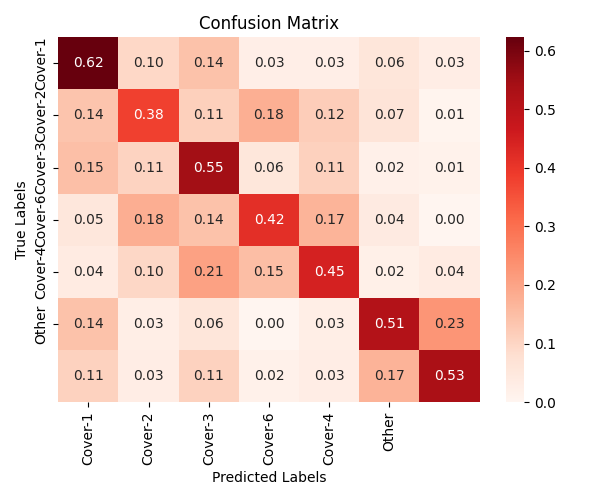
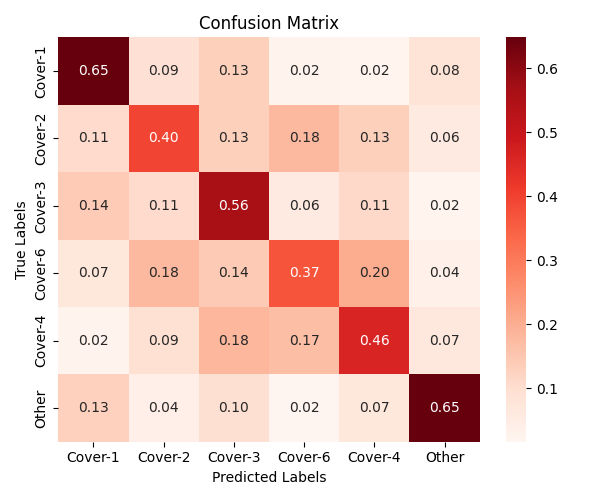
added 3 new features

diff --git a/passing_down.py b/passing_down.py
@@ -52,7 +52,7 @@ class PassingDown():
             target_y = stat_encodings.encode_passCoverage(play['pff_passCoverage'])
             if target_y == -1:
                 print('\tExcluded')
-                return torch.zeros(51)
+                return torch.zeros(54)
             
             # Extract pff_manZone
             man_zone = stat_encodings.encode_manZone(play['pff_manZone'])
@@ -118,15 +118,15 @@ class PassingDown():
             safety_depths = []
             safety_y_coords = []
 
-            # Count how many players are inside/outside 10 yards of the ball's y-axis
+            # Count how many defenders are inside/outside 10 yards of the ball's y-axis
             middle_field_count = 0
             outside_field_count = 0
             middle_thresh = 10
 
             near_los_thresh = 1.5 # Near LoS = within 1.5 yards of LoS
             in_box_x_thresh = 5 # In box = within 5 yards of LoS, within 10 yards on either side of ball
-            players_near_los = 0
-            players_in_box = 0
+            defenders_near_los = 0
+            defenders_in_box = 0
 
             # If both safeties are 10+ yards away from LoS, Middle of Field is open
             mof_open_thresh = 10
@@ -181,19 +181,19 @@ class PassingDown():
                     db_depths.append(player_dist_to_los)
                     db_y_coords.append(player_y_coord_at_snap)
                 
-                # Get # of players in middle of the field and outside
+                # Get # of defenders in middle of the field and outside
                 if np.round(np.abs(player_y_coord_at_snap - ball_y_coord), 4) <= middle_thresh:
                     middle_field_count += 1
                 else:
                     outside_field_count += 1
 
-                # Get # of players near the line of scrimmage
+                # Get # of defenders near the line of scrimmage
                 if player_dist_to_los <= near_los_thresh:
-                    players_near_los += 1
+                    defenders_near_los += 1
 
-                # Get # of players in the box (within 5 yards of LoS and within 10 yards of the ball placement (y-axis))
+                # Get # of defenders in the box (within 5 yards of LoS and within 10 yards of the ball placement (y-axis))
                 if player_dist_to_los <= in_box_x_thresh and np.round(np.abs(player_y_coord_at_snap - ball_y_coord), 4) <= middle_thresh:
-                    players_in_box += 1
+                    defenders_in_box += 1
 
 
                 positions_analyzed.append(player_position)
@@ -234,23 +234,26 @@ class PassingDown():
             features['next_deepest_safety_depth'] = next_deepest_safety_depth
             features['middle_field_count'] = middle_field_count
             features['outside_field_count'] = outside_field_count
-            features['players_near_los'] = players_near_los
-            features['players_in_box'] = players_in_box
+            features['defenders_near_los'] = defenders_near_los
+            features['defenders_in_box'] = defenders_in_box
             features['avg_defender_depth'] = np.round(np.mean(all_depths), 4)
             features['std_defender_depth'] = np.round(np.std(all_depths), 4)
             features['avg_cb_depth'] = np.round(np.mean(cb_depths), 4)
             features['min_cb_depth'] = np.min(cb_depths)
-            features['avg_defender_to_deepest_safety'] = avg_defender_to_deepest_safety_depth
+            features['max_cb_depth'] = np.max(cb_depths)
+            features['avg_defender_to_deepest_safety'] = np.round(avg_defender_to_deepest_safety_depth, 4)
             features['defender_lateral_spread'] = defender_lateral_spread
             features['std_lb_depth'] = np.round(np.std(lb_depths), 4)
             features['lb_lateral_spread'] = lb_lateral_spread
             features['avg_lb_depth'] = np.round(np.mean(lb_depths), 4)
+            features['min_lb_depth'] = np.min(lb_depths)
+            features['max_lb_depth'] = np.max(lb_depths)
             features['std_db_depth'] = np.round(np.std(db_depths), 4)
             features['avg_db_depth'] = np.round(np.mean(db_depths), 4)
             features['safety_lateral_spread'] = safety_lateral_spread
             features['std_safety_depth'] = np.round(np.std(safety_depths), 4)
             features['avg_safety_depth'] = np.round(np.mean(safety_depths), 4)
-            features['safety_depth_diff'] = deepest_safety_depth - next_deepest_safety_depth
+            features['safety_depth_diff'] = np.round(deepest_safety_depth - next_deepest_safety_depth, 4)
             features['mof_open'] = mof_open
             features['man_zone'] = man_zone
             features['target_y'] = target_y
@@ -268,23 +271,26 @@ class PassingDown():
                 print('Std defender depth:\t\t', np.round(np.std(all_depths), 4))
                 print('Deepest safety depth:\t\t', deepest_safety_depth)
                 print('Next deepest safety:\t\t', next_deepest_safety_depth)
-                print('Players in middle of the field:\t', middle_field_count)
-                print('Players in outside of the field:', outside_field_count)
-                print('Players near LoS:\t\t', players_near_los)
-                print('Players in box:\t\t\t', players_in_box)
+                print('Defenders in middle of the field:', middle_field_count)
+                print('Defenders in outside of the field:', outside_field_count)
+                print('Defenders near LoS:\t\t', defenders_near_los)
+                print('Defenders in box:\t\t\t', defenders_in_box)
                 print('Avg CB depth:\t\t\t', np.round(np.mean(cb_depths), 4))
                 print('Min CB depth:\t\t\t', np.min(cb_depths))
+                print('Max CB depth:\t\t\t', np.min(cb_depths))
                 print('Avg LB depth:\t\t\t', np.round(np.mean(lb_depths), 4))
                 print('Std LB depth:\t\t\t', np.round(np.std(lb_depths), 4))
+                print('Min LB depth:\t\t\t', np.min(lb_depths))
+                print('Max LB depth:\t\t\t', np.min(lb_depths))
                 print('LB lateral spread:\t\t', lb_lateral_spread)
                 print('Std DB depth:\t\t\t', np.round(np.std(db_depths), 4))
                 print('Avg DB depth:\t\t\t', np.round(np.mean(db_depths), 4))
                 print('Avg safety depth:\t\t', np.round(np.mean(safety_depths), 4))
                 print('Std safety depth:\t\t', np.round(np.std(safety_depths), 4))
                 print('Safety lateral spread:\t\t', safety_lateral_spread)
-                print('Safety depth diff:\t\t', deepest_safety_depth - next_deepest_safety_depth)
+                print('Safety depth diff:\t\t', np.round(deepest_safety_depth - next_deepest_safety_depth), 4)
                 print('Mof Open:\t\t\t', mof_open)
-                print('Avg defender depth to deepest safety:', avg_defender_to_deepest_safety_depth)
+                print('Avg defender depth to deepest safety:', np.round(avg_defender_to_deepest_safety_depth), 4)
                 print('defender lateral spread:\t', defender_lateral_spread)
             
 
@@ -298,7 +304,7 @@ class PassingDown():
         
         except Exception as e:
             print('\tError processing:', e)
-            return torch.zeros(51)
+            return torch.zeros(54)
 
 
 
@@ -315,12 +321,15 @@ class PassingDown():
 
         all_play_features = []
 
+        print('all plays length:', len(play_data))
+
         # Filter Play data by Passing plays only (9736 total rows)
         passing_play_data = play_data[play_data['passResult'].notna()]
+        print('all passing play length:', len(passing_play_data))
 
         count = 0
-        start = 5500
-        limit = 8500
+        start = 0
+        limit = 16000
         for i,passing_play in passing_play_data.iterrows():
             count += 1
             if count <= start:
@@ -382,9 +391,9 @@ class PassingDown():
         'defender10_x', 'defender10_y', 'defender11_x', 'defender11_y', 'offensive_alignment', 
         'possessionTeamScoreDiff', 'quarter', 'down', 'yards_to_go', 'deepest_safety_depth', 
         'next_deepest_safety_depth', 'middle_field_count', 'outside_field_count', 'players_near_los', 
-        'players_in_box', 'avg_defender_depth', 'std_defender_depth', 'avg_cb_depth', 'min_cb_depth', 
+        'players_in_box', 'avg_defender_depth', 'std_defender_depth', 'avg_cb_depth', 'min_cb_depth', 'max_cb_depth'
         'avg_defender_to_deepest_safety_depth', 'defender_lateral_spread', 'std_lb_depth', 'lb_lateral_spread', 
-        'avg_lb_depth', 'std_db_depth', 'avg_db_depth', 'safety_lateral_spread', 'std_safety_depth', 
+        'avg_lb_depth', 'min_lb_depth', 'max_lb_depth', 'std_db_depth', 'avg_db_depth', 'safety_lateral_spread', 'std_safety_depth', 
         'avg_safety_depth', 'safety_depth_diff', 'mof_open', 'man_zone', 'target_y']
         df = pd.DataFrame(numpy_array, columns=columns)
         df.to_csv(f'features/play_features_pffCoverage_{len(columns)}features_{start}-{limit}.csv', index=False)

diff --git a/main.py b/main.py
@@ -45,23 +45,27 @@ def main():
     x_coords = ['defender1_x', 'defender2_x', 'defender3_x', 'defender4_x', 'defender5_x', 'defender6_x', 'defender7_x', 'defender8_x', 'defender9_x', 'defender10_x', 'defender11_x']
     y_coords = ['defender1_y', 'defender2_y', 'defender3_y', 'defender4_y', 'defender5_y', 'defender6_y', 'defender7_y', 'defender8_y', 'defender9_y', 'defender10_y', 'defender11_y']
     game_state = ['offensive_alignment', 'quarter', 'down', 'yards_to_go', 'possessionTeamScoreDiff']
-    depth_data = ['deepest_safety_depth', 'next_deepest_safety_depth', 'avg_defender_depth', 'std_defender_depth', 'avg_cb_depth', 'min_cb_depth', 'avg_defender_to_deepest_safety_depth', 'std_lb_depth', 'avg_lb_depth', 'std_db_depth', 'avg_db_depth']
+    depth_data = ['deepest_safety_depth', 'next_deepest_safety_depth', 'avg_defender_depth', 'std_defender_depth', 'avg_cb_depth', 'min_cb_depth', 'avg_defender_to_deepest_safety_depth', 'std_lb_depth', 'avg_lb_depth', 'std_db_depth', 'avg_db_depth', 'safety_depth_diff', 'std_safety_depth', 'avg_safety_depth']
     lateral_data = ['defender_lateral_spread', 'lb_lateral_spread']
-    std_data = ['std_db_depth', 'std_lb_depth', 'std_defender_depth']
+    std_data = ['std_db_depth', 'std_lb_depth', 'std_defender_depth', 'std_safety_depth']
     avg_data = ['avg_defender_depth', 'avg_cb_depth', 'avg_defender_to_deepest_safety_depth', 'avg_lb_depth', 'avg_db_depth']
+    db_data = ['std_db_depth', 'avg_db_depth']
+    lb_data = ['std_lb_depth', 'lb_lateral_spread', 'avg_lb_depth']
+    safety_data = ['safety_depth_diff', 'std_safety_depth', 'avg_safety_depth']
+    test = ['avg_defender_to_deepest_safety_depth']
 
     # INSIGHTS:
     # - Removing x_coords only produces the best result
     # - Game-state and Lateral/y data have very little effect on the accuracy
     # - The most important data is the depth data
     
-    # BEST RESULT
+    # BEST RESULTS
+    data = data.drop(columns=(x_coords + y_coords + db_data + safety_data + test)) # test = 'avg_defender_to_deepest_safety_depth'
     # data = data.drop(columns=(x_coords))
 
-    # data = data.drop(columns=(x_coords + y_coords))
 
     # Add Man/Zone into Coverage (e.g. Cover-1 Man, Cover-1 Zone, etc.)
-    data['target_y'] = data['target_y'] * 2 + data['man_zone']
+    # data['target_y'] = data['target_y'] * 2 + data['man_zone']
     data = data.drop(columns=['man_zone'])
 
 

diff --git a/random_tree.py b/random_tree.py
@@ -29,6 +29,7 @@ def RandomForest(x, y, dataframe):
     # DIAGRAMS
     ######################################################################################################
     classes = ['Cover-1', 'Cover-2', 'Cover-3', 'Cover-6', 'Cover-4', 'Other']
+    # classes = ['C-1 Man', 'C-2']
     cardinals_red = '#972440'
 
     # FEATURE IMPORTANCE
